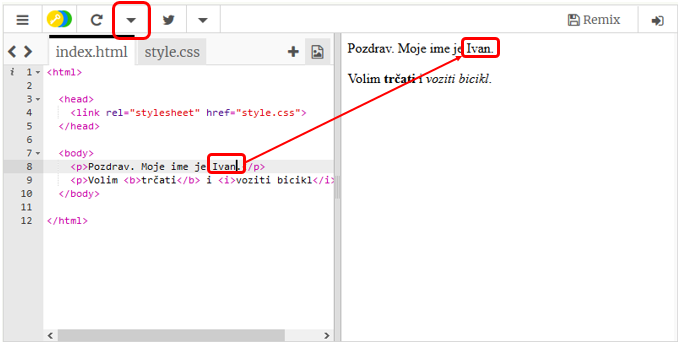
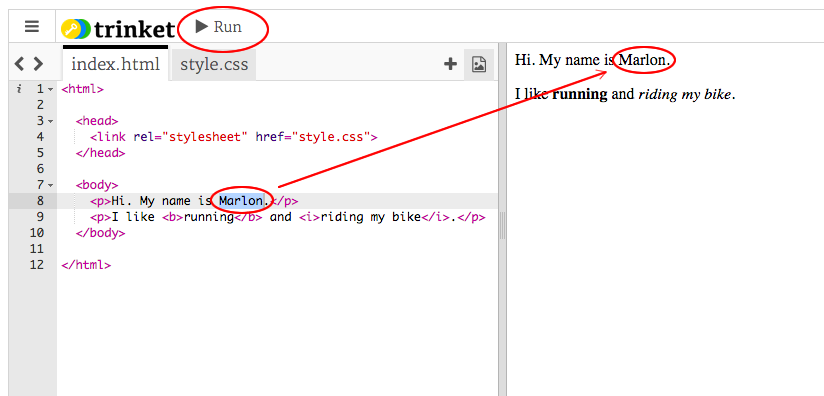
Projekt 2
Prijevod drugog projekta

Changed region(s): [[0.0, 0.0, 1.0, 1.0]]

diff --git a/hr-HR/Ispričaj priču/Club Leader Resources/StoryFinished.html b/hr-HR/Ispričaj priču/Club Leader Resources/StoryFinished.html
@@ -1,0 +1,42 @@
+<html>
+
+  <head>
+    <link rel="stylesheet" href="style.css">
+  </head>
+
+  <body>
+
+      <h1>A Joke...</h1>
+
+      <div>
+        <img src="boy.png">
+        <p>Knock knock</p>
+      </div>
+
+      <div>
+        <img src="girl.png">
+        <p>Who's there?</p>
+      </div>
+
+      <div>
+        <img src="boy.png">
+        <p>Hatch</p>
+      </div>
+
+      <div>
+        <img src="girl.png">
+        <p>Hatch who?</p>
+      </div>
+
+      <div>
+        <img src="boy.png">
+        <p>Bless you!</p>
+      </div>
+
+      <div>
+        <img src="girl.png">
+        <p>. . .</p>
+      </div>
+
+  </body>
+</html>

diff --git a/hr-HR/Ispričaj priču/Club Leader Resources/style.css b/hr-HR/Ispričaj priču/Club Leader Resources/style.css
@@ -1,0 +1,29 @@
+body {
+  background-color: lightblue;
+  font-family: Comic Sans MS;
+}
+div {
+  display: inline-block;
+  position: relative;
+  overflow: hidden;
+  margin: 2px;
+  background-color: lightyellow;
+  width: 200px;
+  height: 200px;
+  border: 2px solid black;
+}
+p {
+  position: absolute;
+  background-color: white;
+  bottom:-1em;
+  border-top: 2px solid black;
+  border-right: 2px solid black;
+  padding: 5px;
+  margin-right: -2px;
+  font-size: 10pt;
+}
+img {
+  max-height:100%;
+  display: block;
+  margin: 0 auto;
+}

diff --git a/hr-HR/Ispričaj priču/Project Resources/Tell a Story/style.css b/hr-HR/Ispričaj priču/Project Resources/Tell a Story/style.css
@@ -1,0 +1,29 @@
+body {
+  background-color: white;
+  font-family: Arial;
+}
+div {
+  display: inline-block;
+  position: relative;
+  overflow: hidden;
+  margin: 2px;
+  background-color: white;
+  width: 200px;
+  height: 200px;
+  border: 2px solid black;
+}
+p {
+  position: absolute;
+  background-color: white;
+  bottom:-1em;
+  border-top: 2px solid black;
+  border-right: 2px solid black;
+  padding: 5px;
+  margin-right: -2px;
+  font-size: 10pt;
+}
+img {
+  max-height:100%;
+  display: block;
+  margin: 0 auto;
+}

diff --git a/hr-HR/Ispričaj priču/Project Resources/Tell a Story/Story.html b/hr-HR/Ispričaj priču/Project Resources/Tell a Story/Story.html
@@ -1,0 +1,18 @@
+<html>
+
+  <head>
+    <link rel="stylesheet" href="style.css">
+  </head>
+
+  <body>
+
+    <h1>Add your title here!</h1>
+
+    <div>
+      <img src="sun.png">
+      <p>Add your own text here!</p>
+    </div>
+
+  </body>
+
+</html>

diff --git a/hr-HR/Ispričaj priču/Project Resources/Template/template.html b/hr-HR/Ispričaj priču/Project Resources/Template/template.html
@@ -1,0 +1,11 @@
+<html>
+  
+  <head>
+  	<link rel="stylesheet" href="style.css">
+  </head>
+  
+  <body>
+    
+  </body>
+  
+</html>

diff --git a/hr-HR/Ispričaj priču/Ispričaj priču.md b/hr-HR/Ispričaj priču/Ispričaj priču.md
@@ -1,0 +1,123 @@
+---
+title: Ispričaj priču
+level: HTML & CSS 1
+language: hr-HR
+embeds: "*.png"
+materials: ["Club Leader Resources/*.*","Project Resources/*.*"]
+stylesheet: web
+...
+
+# Uvod { .intro}
+
+U ovom projektu naučit ćeš napraviti internet stranicu za pričanje priče, vica ili pjesme.
+![screenshot](story-final.png)
+
+# Korak 1: Odluči što ćeš pisati { .activity}
+
+Prije nego što započneš s pisanjem kôda odluči o čemu ćeš pisati.
+
+## Zadatci { .check}
+
++ Razmisli o priči koju želiš ispričati. To može biti:
+	+ Poznata priča;
+	+ Izmišljena priča;
+	+ Nešto što se dogodilo tebi ili nekome koga poznaješ.
+
+	Osim priče to može biti vic, pjesma ili bilo što drugo što ti padne na pamet.
+
+# Korak 2: Uređivanje priče { .activity}
+
+Započnimo s uređivanjem HTML sadržaja i CSS stila naše stranice.
+
+## Zadatci { .check}
+
++ Otvori Trinket sučelje klikom na poveznicu <a href="http://jumpto.cc/web-story" target="_blank">jumpto.cc/web-story</a>. Možeš koristiti i prozor koji se nalazi ispod ovog teksta. 
+<div class="trinket">
+	<iframe src="https://trinket.io/embed/html/8083cfebb3" width="100%" height="400" frameborder="0" marginwidth="0" marginheight="0" allowfullscreen>
+	</iframe>
+</div>
+
++ Vjerojatno se sjećaš iz projekta 'Sretan rođendan' da se sadržaj internetske stranice piše u tijelo ,`<body>`, HTML dokumenta.
+
+	Dio za sadržaj na našoj web stranici počinje u sedmom redu kôda. Nalazi se unutar oznaka `<body>` i `</body>`.
+
+	![screenshot](story-html.png)
+
++ Možeš li pronaći oznake koje se koriste za kreiranje različitih dijelova stranice?
+
+	![screenshot](story-elements.png)
+
+	+ `<h1>` je  __heading__ (naslov). Za promjenu veličine naslova koriste se brojevi od 1 do 6;
+	+ `<div>` je skraćeno od __division__ (pregrada). Koristi se za grupiranje elemenata. 
+	+ `<p>` je __paragraph__ (odlomak) teksta.
+
+##Izazov: Napravi nekoliko izmjena {.challenge}
+Uredi HTML i CSS kôd tako da prilagodiš svoju stranicu.
+
+![screenshot](story-changes.png)
+
+Možeš mijenjati boje ili vrstu slova. Na primjer, <span style="font-family: Arial;">Arial</span>, <span style="font-family: Comic Sans MS;">Comic Sans MS</span>, <span style="font-family: Impact;">Impact</span> and <span style="font-family: Tahoma;">Tahoma</span>.
+
+Trebaš li pomoć, iskoristi projekt 'Sretan rođendan'.
+
+## Spremi promjene u projektu {.save}
+
+# Korak 3: Pričanje priče { .activity}
+
+Dodajmo drugi dio priče.
+
+## Zadatci { .check}
+
++ Idi u 17. red kôda i dodaj drugi komplet oznaka `<div>` i `</div>`. To će stvoriti novi odjeljak za slijedeći dio tvoje priče.
+
+	![screenshot](story-div.png)
+
++ Unutar nove `<div>` oznake dodaj odlomak teksta.
+
+	![screenshot](story-paragraph.png)
+
++ Na kraju dodaj i sliku. Za dodavanje slike unutar oznake `<div>` koristiti oznaku `<img>`: 
+
+	```
+	<img src="">
+	```
+
+	Primjeti da su `<img>` oznake drugačije od drugih oznaka: nemaju završnu oznaku.
+
++ Za dodavanje slike u HTML dokument potrebno je, unutar navodnika, dodati __izvor (source)__ slike. Pronađimo sliku koju ćemo dodati priči.
+
+	Slijedi link <a href="http://jumpto.cc/web-images" target="_blank">jumpto.cc/web-images</a> i pronađi sliku koju želiš uključiti u svoju priču.
+
++ Pritisni desnim klikom miša na sliku, a zatim odaberi naredbu 'Kopiraj lokaciju slike (Copy image URL)'. URL je adresa slike.
+
+	![screenshot](story-url.png)
+
++ Zalijepi URL između navodnika unutar oznake `<img>`. Na stranici bi se sada trebala pojaviti odabrana slika. 
+
+	![screenshot](story-image.png)
+	
+
++ __Imaš li Trinket račun__ na stranicu možeš dodavati i vlastite slike. 
+
++ Klikni na ikonu za dodavanje slike koja se nalazi u gornjem desnom kutu trinket sučelja za unos kôda. Klikni na gumb 'Upload'.
+
+	![screenshot](story-upload.png)
+
++ Pronađi sliku na računalu i povuci je na mjesto predviđeno za to.
+
+	![screenshot](story-drag.png)
+
++ Sada možeš samo promijeniti ime slike koje se nalazi između navodnika unutar oznake `<img>`:
+
+	```
+	<img src="buildings.png">
+	```
+
+## Spremi promjene u projektu {.save}
+
+##Izazov: Nastavi! {.challenge}
+Iskoristi naučeno u ovom projektu i završi svoju priču. Pogledaj primjer:
+
+![screenshot](story-final.png)
+
+## Spremi projekt {.save}

diff --git a/hr-HR/Ispričaj priču/Ispričaj priču - bilješke.md b/hr-HR/Ispričaj priču/Ispričaj priču - bilješke.md
@@ -1,0 +1,58 @@
+---
+title: Ispričaj priču — Bilješke za volontere
+language: hr-HR
+embeds: "*.png"
+materials: [""]
+...
+
+#Uvod: 
+U ovom projektu djeca će napisati vlastiti HTML kôd. Napravit će svoju priču, dodavati slike i opise svojoj stranici koja će izgledati kao strip.
+
+#Online resursi
+
+Za pisanje HTML i CSS kôda preporučujemo korištenje oline sučelja [trinket](https://trinket.io/). Ovaj projekt sadrži sljedeće 'trinkete':
+
++ ['Tell a Story' starting point -- jumpto.cc/web-story](http://jumpto.cc/web-story)
+
+Za pisanje kôda djeca se mogu poslužiti praznim dokumentom [(jumpto.cc/trinket-blank)](http://jumpto.cc/trinket-blank) ili  koristiti predložak [(jumpto.cc/trinket-template)](http://jumpto.cc/trinket-template).
+
+Postoji trinket koji sadrži primjer rješenja izazova:
+
++ ['Tell a Story' Finished](https://trinket.io/html/c8afdef912)
+
+#Offline resursi
+Ovaj projekt moguće je izraditi i [offline](../html-css.html). Potrebne datoteke je moguće preuzeti klikom na poveznicu projekta 'Download Project Materials'. Tu se nalazi mapa 'Project Resources', koja sadrži datoteke potrebne za izradu projekta offline.
+Pobrinite se da svako djete ima pristup kopiji sljedećih datoteka: 
+
++ Template/Template.html
++ Template/style.css
++ Tell a Story/Story.html
++ Tell a Story/style.css
++ Tell a Story/buildings.png
++ Tell a Story/sun.png
+
+Gotova verzija izazova ovoga projekta nalazi se u mapi 'Club Leader Resources' mapi koja sadrži datoteke:
+
++ StoryFinished.html
++ style.css
++ boy.png
++ girl.png
+
+#Ciljevi učenja
++ Pisanje HTML kôda:
+	+ `<div>` označavanje i grupiranje elemenata
+	+ `<img>` URL slike;
+	+ `<h1>` - `<h6>` naslovi.
+
+#Izazovi
++ "Napravi nekoliko promjena" - uređivanje HTML sadržaja i CSS stila;
++ "Nastavi!" - primjena oznaka i stilova za završetak priče.
+
+#Korištenje ovog projekta offline
++ Ako djeca rade ovaj projekt offline slike koje žele koristiti trebaju spremiti u mapu u kojoj se nalazi datoteka`Story.html`.
+
+	Onda mogu samo upisati ime slike unutar navodnika u oznaci `<img>`:
+
+	```
+		<img src="house.png" />
+	``` 

diff --git a/hr-HR/Sretan rođendan/Sretan rođendan.md b/hr-HR/Sretan rođendan/Sretan rođendan.md
@@ -35,7 +35,7 @@ HTML je  __HyperText Markup Language__, a njime se koristimo za izradu web stran
 	HTML koristi oznake (tags) za izradu web stranica. Vidiš li HTML u osmom redu kôda?
 
 	```
-	<p>Pozdrav. Moje ime je Ivan.</p>
+	<p>Hi. My name is Andy.</p>
 	```
 
 	`<p>` je primjer oznake, skraćeno od paragraph (odlomak). Odlomak započinje oznakom `<p>` i završava oznakom `</p>`.
@@ -43,7 +43,7 @@ HTML je  __HyperText Markup Language__, a njime se koristimo za izradu web stran
 + Možeš li uočiti neku drugu oznaku? Jedna od oznaka koju možeš uočiti je oznaka `<b>` u devetom redu. Ona znači __bold__ i koristi se za podebljavanje teksta:
 
 	```
-	<b>trčati</b>
+	<b>running</b>
 	```
 
 	Još neki:
@@ -54,10 +54,15 @@ HTML je  __HyperText Markup Language__, a njime se koristimo za izradu web stran
 
 	![screenshot](birthday-head-body.png)
 
+
 + Napravi promjenu jednog odlomka u HTML-u (lijevo). Klikni 'Run' i trebala bi se vidjeti promjena na web stranici (desno)!
 	Ako je uključena mogućnost Autorun, promjene na stranici će se prikazati odmah. 
 
 	![screenshot](birthday-edit-html.png)
+
++ Zamijeni tekst prvog odlomka Hi. My name is Andy s Pozdrav. Moje ime je Marko.
++ Zamijeni tekst drugog odlomka I like running and riding my bike s Volim trčati i voziti bicikl.
+	Slobodno ime Marko zamijeni svojim imenom. Također zamijeni trčanje i vožnju biciklom aktivnosima koje voliš.
 
 + U slučaju pogreške promjene je moguće poništiti naredbom 'Reset' do koje se dolazi pomoću gumba s izbornicima (menu). Pokušaj!
 
